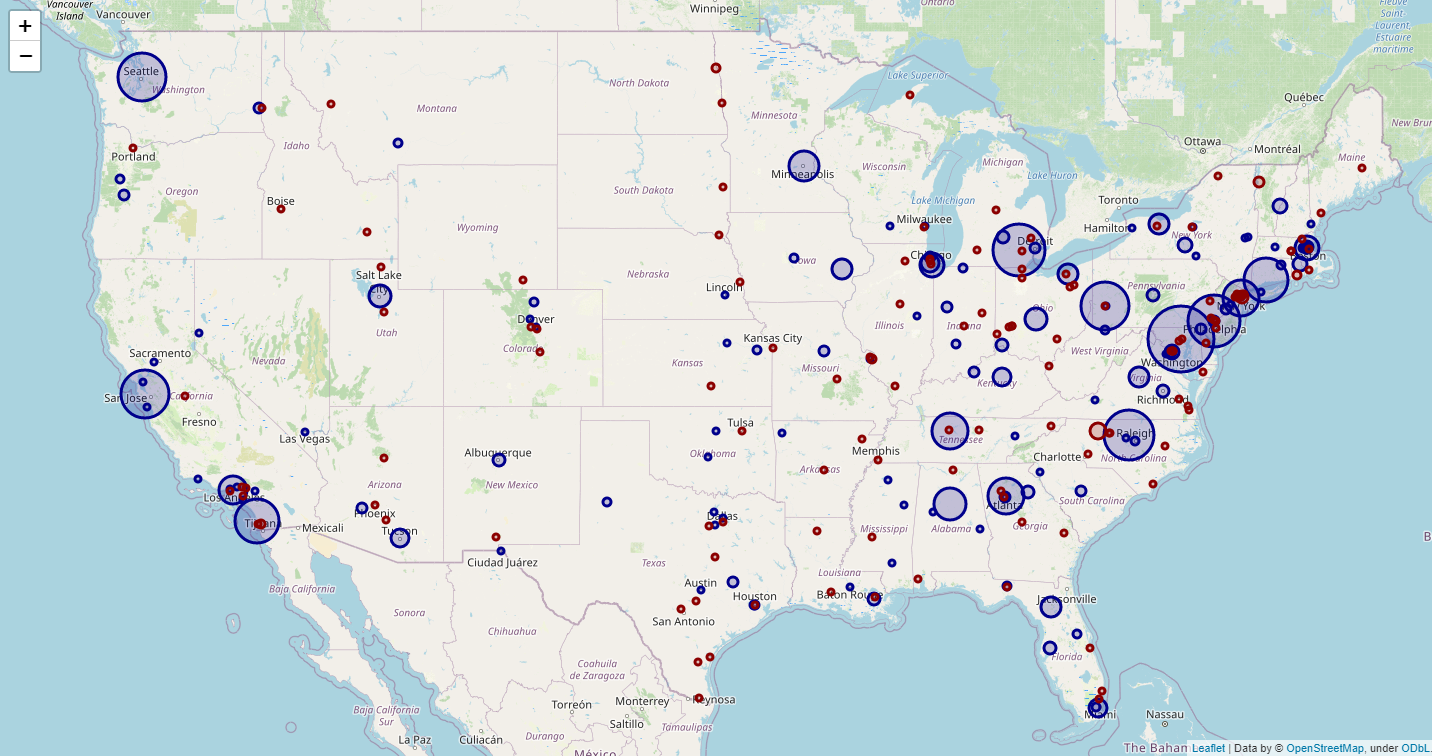
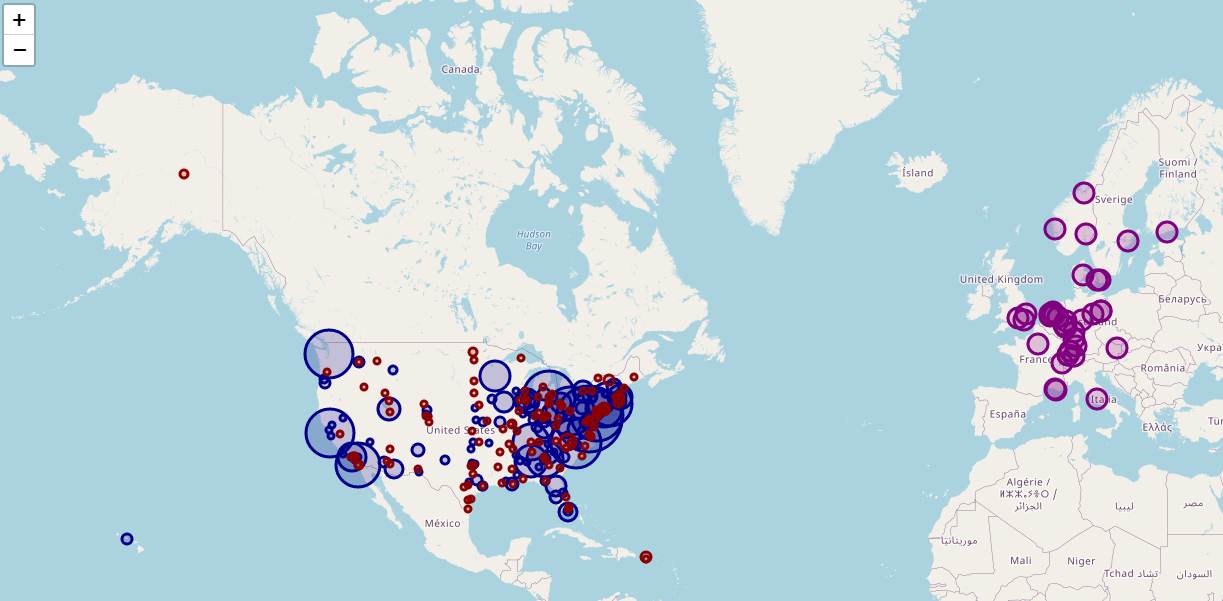
Updated readme and snapshot

diff --git a/README.md b/README.md
@@ -4,17 +4,17 @@ Is there a map of research universities? I couldn't find one, so I'm working on 
 
 Browse around, click on pins, follow the links to university websites and check out what they have to offer.
 
-<a href="http://brkanter.com/USA_map.html" target="_blank">Check out it here</a>
+<a href="http://brkanter.com/World_map.html" target="_blank">Check out it here</a>
 
 ![Image](https://github.com/brkanter/labFinder/blob/master/screenshot.PNG)
 
 To do:
-  * Expand beyond the United States.
+  * Expand list of institutes.
   * Restrict to neuroscience/neurobiology research, or somehow label by subject matter.
   * Try to incorporate open positions / hiring information.
 
 Notes:
-  * Blue = R1 rating, Red = R2 rating
-  * Marker size scales with NIH 2019 funding.
+  * Blue = R1 rating, Red = R2 rating, Purple = Outside USA
+  * Marker size scales with NIH 2019 funding for USA.
 
 Please get in touch with suggestions and feedback.
